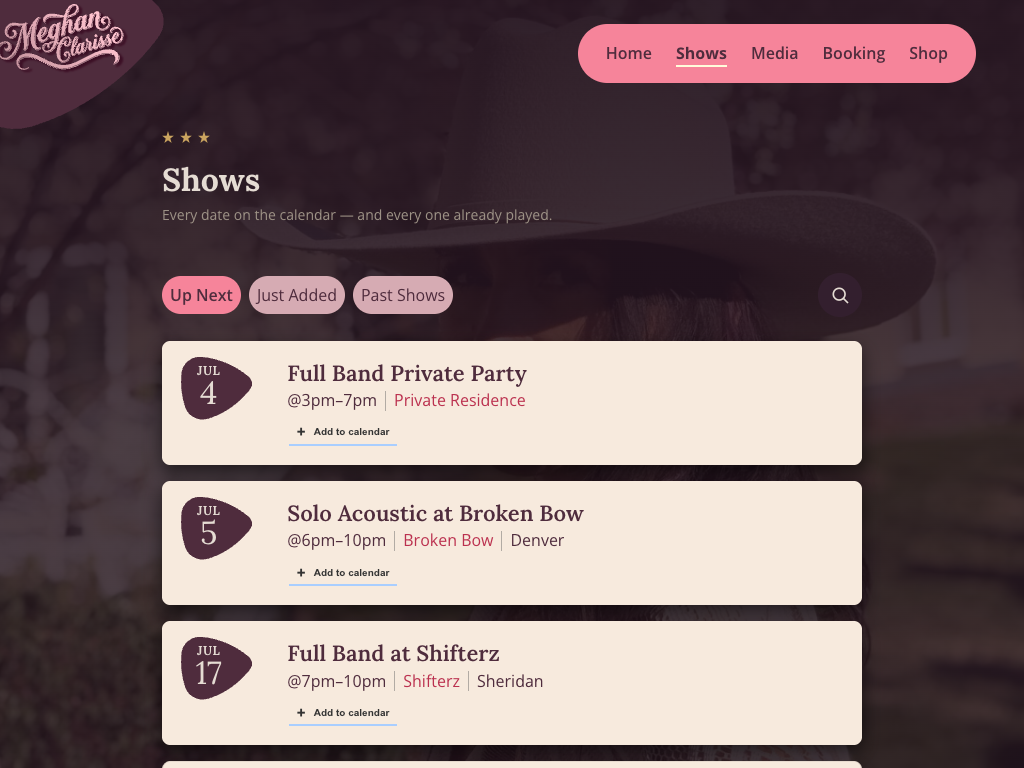
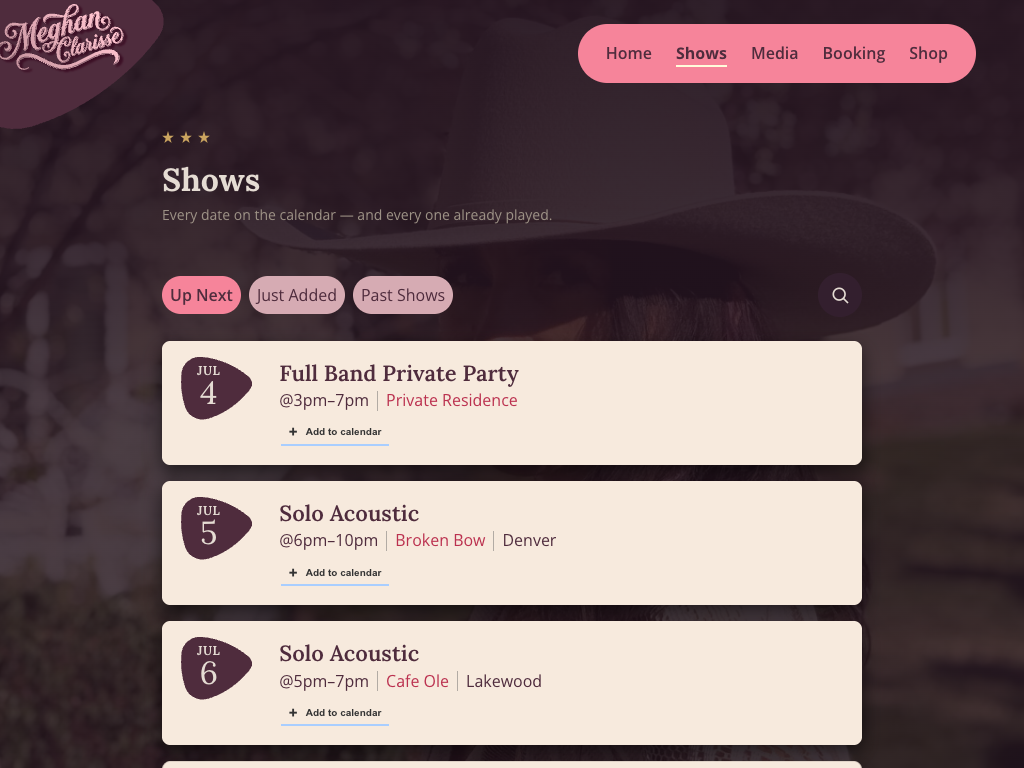
fix(shows): pull row copy 8px closer to the pick
Add a -8px left margin on the card body so the title/time/venue/city sit
nearer the date badge.

diff --git a/src/components/ShowCard/ShowCard.module.css b/src/components/ShowCard/ShowCard.module.css
@@ -99,6 +99,8 @@
   flex-direction: column;
   gap: var(--mc-space-1);
   min-width: 0;
+  /* Pull the copy 8px closer to the pick. */
+  margin-left: -8px;
 }
 
 .title {
